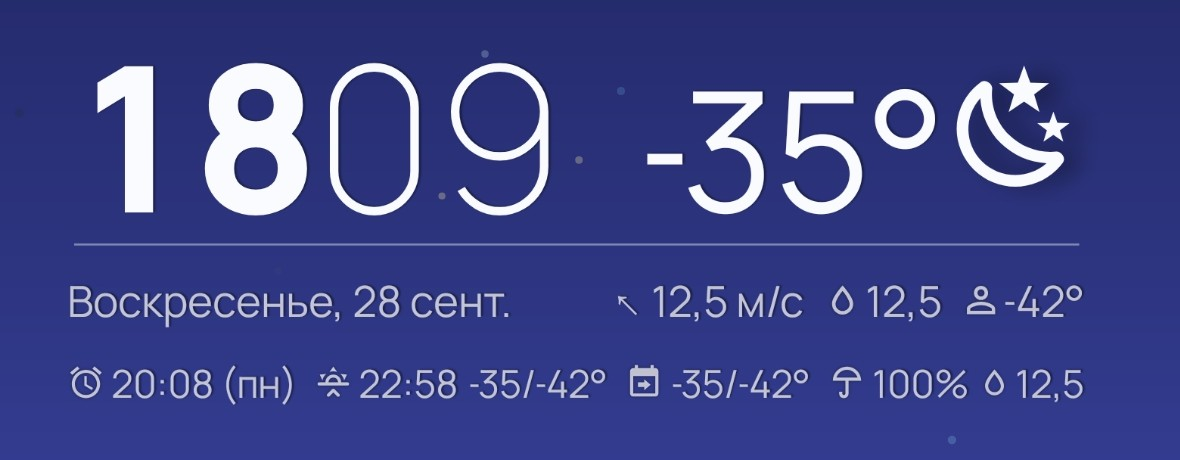
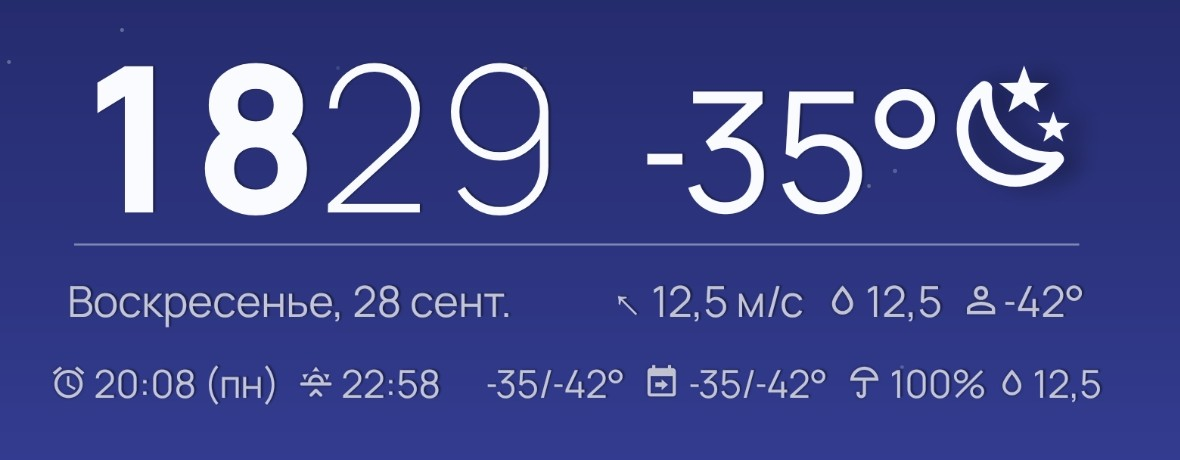
README: maximal screenshot of widget 7.8
Claude-Session: https://claude.ai/code/session_01Bv97u9rv4e62hnWyUsMffm

diff --git a/README.ru.md b/README.ru.md
@@ -97,7 +97,7 @@ Breezy Weather ──(оповещение об обновлении)──▶ W
 | `maximal` | Самые длинные значения во всех строках — проверка наложений |
 | `precip_test` | Показать блоки осадков с нужной иконкой: 0 реальные данные, 1 дождь, 2 снег, 3 снег с дождём |
 
-С включённым `maximal` (самые длинные значения, шрифт мельче):
+С включённым `maximal` (самые длинные значения, шрифт мельче, половины нижней строки раздвинуты):
 
 ![maximal](docs/images/widget-maximal.jpg)
 

diff --git a/README.md b/README.md
@@ -97,7 +97,7 @@ Taps: the weather area opens Breezy Weather; the clock opens the clock app of Co
 | `maximal` | Fill every row with its longest value, to check for overlaps |
 | `precip_test` | Show the precipitation blocks with a given icon: 0 real data, 1 rain, 2 snow, 3 sleet |
 
-With `maximal` on (every row at its longest, smaller font):
+With `maximal` on (every row at its longest, smaller font; the bottom row moves its halves apart):
 
 ![maximal](docs/images/widget-maximal.jpg)
 
